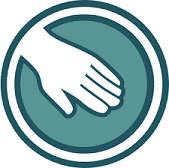
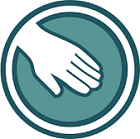
Replace images with smaller resized ones.

diff --git a/assets/css/style.css b/assets/css/style.css
@@ -173,6 +173,9 @@ header > h1 {
 .choices {
     margin-top: 50px 0;
     text-align: center;
+    display: flex;
+    flex-wrap: wrap;
+    justify-content: center;
 }
 
 .choice {
@@ -182,6 +185,13 @@ header > h1 {
     padding: 10px;
     display: inline-block;
     transition: all 0.3s ease;
+    /* flex: 1 0 40%; /* Make the choice divs take up 40% of the container */
+}
+
+@media (max-width: 400px) {
+    .choice {
+        width: calc(50% - 20px);
+    }
 }
 
 .choice:hover {
